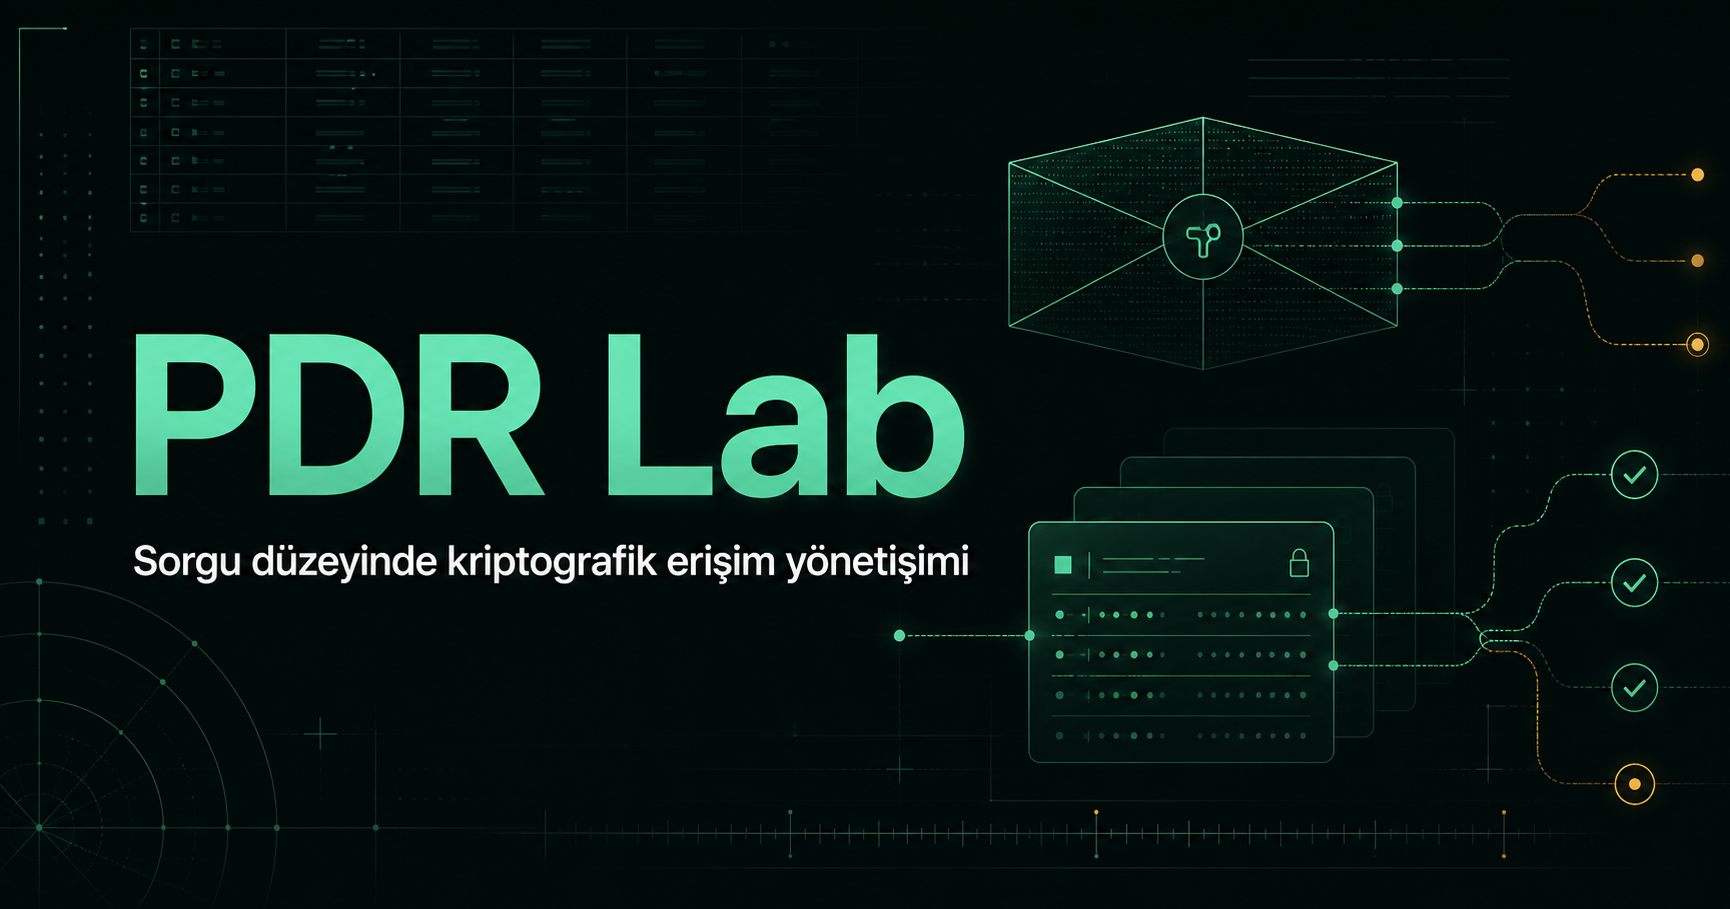
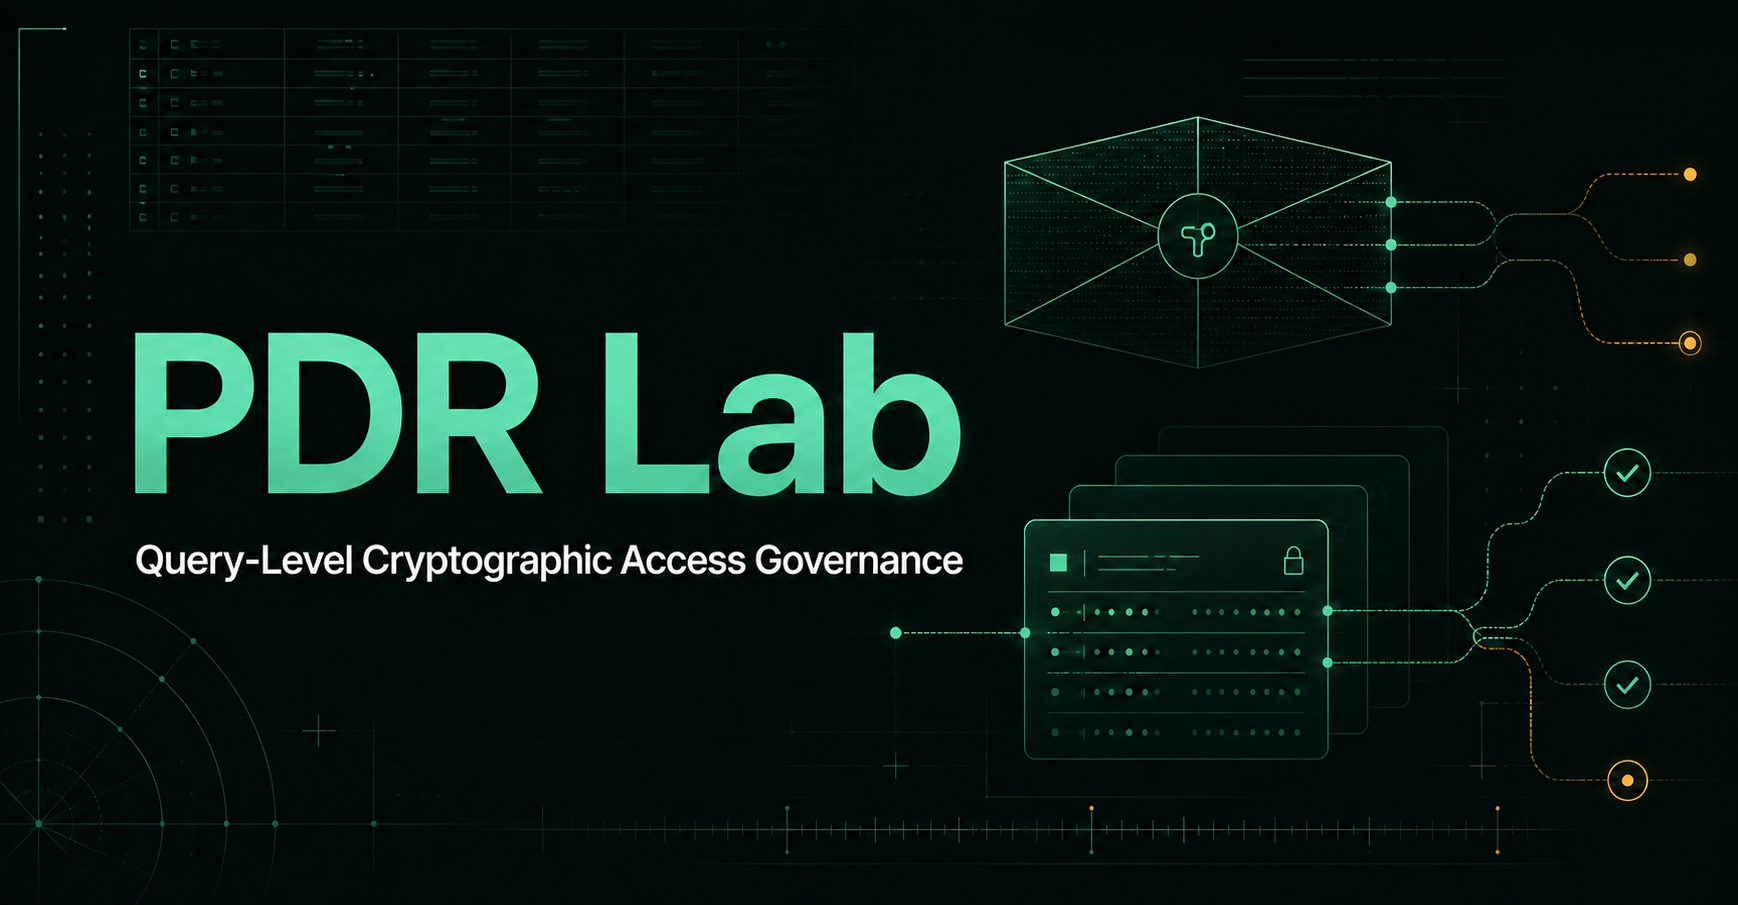
Make documentation and app English-first

diff --git a/app/page.tsx b/app/page.tsx
@@ -181,17 +181,17 @@ async function hashText(text: string) {
 }
 
 export default function Home() {
-  const [lang, setLang] = useState<Locale>('tr');
+  const [lang, setLang] = useState<Locale>('en');
   const [mode, setMode] = useState<AccessMode>('lawful');
   const [recordId, setRecordId] = useState('PDR-C-1004');
   const [authority, setAuthority] = useState('Mali Suçları Araştırma Birimi');
-  const [legalBasis, setLegalBasis] = useState('AML-14 / Şüpheli işlem incelemesi');
+  const [legalBasis, setLegalBasis] = useState('AML-14 / Suspicious transaction review');
   const [purpose, setPurpose] = useState('Şüpheli işlem analizi');
   const [duration, setDuration] = useState('24');
   const [identityVerified, setIdentityVerified] = useState(true);
   const [fields, setFields] = useState<string[]>(['islemKimligi', 'taraflar', 'tutar', 'tarih']);
   const [decision, setDecision] = useState<Decision>('idle');
-  const [reason, setReason] = useState('Bir senaryo seçin veya istek bağlamını düzenleyin.');
+  const [reason, setReason] = useState('Select a scenario or edit the request context.');
   const [result, setResult] = useState<Payload | null>(null);
   const [excluded, setExcluded] = useState<string[]>([]);
   const [activeStage, setActiveStage] = useState(-1);
@@ -252,7 +252,12 @@ export default function Home() {
 
   useEffect(() => {
     const saved = window.localStorage.getItem('pdr-lab-locale');
-    if (saved === 'tr' || saved === 'en') setLang(saved);
+    if (saved === 'tr' || saved === 'en') {
+      setLang(saved);
+      document.documentElement.lang = saved;
+    } else {
+      document.documentElement.lang = 'en';
+    }
   }, []);
 
   function changeLanguage(next: Locale) {

diff --git a/index.html b/index.html
@@ -1,24 +1,26 @@
 <!doctype html>
-<html lang="tr">
+<html lang="en">
   <head>
     <meta charset="UTF-8" />
     <meta name="viewport" content="width=device-width, initial-scale=1.0" />
     <meta name="theme-color" content="#edf4f0" />
     <meta
       name="description"
-      content="Çift anahtar-sarmalama ve sorgu düzeyinde erişim yönetişimi için etkileşimli PDR laboratuvarı."
+      content="An interactive PDR laboratory for dual key-wrapping and query-level access governance."
     />
-    <meta property="og:title" content="PDR Lab — Kriptografik Erişim Yönetişimi" />
+    <meta property="og:title" content="PDR Lab — Cryptographic Access Governance" />
     <meta
       property="og:description"
-      content="Sorgu düzeyinde erişim, çift DEK sarması ve denetim bütünlüğünü deneyin."
+      content="Explore query-level access, dual DEK wrapping, output minimization, and audit integrity."
     />
     <meta property="og:type" content="website" />
+    <meta property="og:locale" content="en_US" />
+    <meta property="og:locale:alternate" content="tr_TR" />
     <meta property="og:url" content="https://esatsy.github.io/pdr-lab-10/" />
     <meta property="og:image" content="https://esatsy.github.io/pdr-lab-10/og.png" />
     <meta name="twitter:card" content="summary_large_image" />
     <link rel="icon" href="%BASE_URL%favicon.svg" />
-    <title>PDR Lab — Kriptografik Erişim Yönetişimi</title>
+    <title>PDR Lab — Cryptographic Access Governance</title>
   </head>
   <body>
     <div id="root"></div>

diff --git a/README.md b/README.md
@@ -1,106 +1,108 @@
-# PDR Lab — Kriptografik Erişim Yönetişimi
+# PDR Lab — Cryptographic Access Governance
 
 [![GitHub Pages](https://github.com/Esatsy/pdr-lab-10/actions/workflows/pages.yml/badge.svg)](https://github.com/Esatsy/pdr-lab-10/actions/workflows/pages.yml)
 ![React](https://img.shields.io/badge/React-19-149eca?logo=react&logoColor=white)
 ![TypeScript](https://img.shields.io/badge/TypeScript-5.9-3178c6?logo=typescript&logoColor=white)
 ![Web Crypto API](https://img.shields.io/badge/Web%20Crypto-AES--GCM%20%2B%20RSA--OAEP-16785a)
 
-PDR Lab, kişisel veri kayıtlarına erişimin yalnızca veritabanı rolüne göre değil; **kimlik, hak sahipliği, yasal yetki, amaç, süre ve talep edilen alan kapsamına** göre değerlendirilmesini gösteren etkileşimli bir araştırma laboratuvarıdır.
+PDR Lab is an interactive research environment demonstrating how access to personal data records can be governed by **identity, entitlement, legal authority, purpose, duration, and requested field scope**—not merely by a database role.
 
-Uygulama, makaledeki akışı iki ayrı anahtar yolu üzerinden canlandırır: kayıt sahibinin kişisel erişimi ve yetkili kurumun sorgu-kapsamlı yasal erişimi. Tüm kayıtlar sentetiktir; kriptografik işlemler tarayıcıdaki Web Crypto API ile gerçekleştirilir.
+The laboratory implements two distinct cryptographic access paths from the paper's flow: personal access by the record holder and query-scoped lawful access by an authorized institution. All records are synthetic, and cryptographic operations run locally in the browser through the Web Crypto API.
 
-## Canlı uygulama
+## Live demo
 
-- [GitHub Pages sürümü](https://esatsy.github.io/pdr-lab-10/)
+[Launch PDR Lab on GitHub Pages](https://esatsy.github.io/pdr-lab-10/)
 
-![PDR Lab arayüz önizlemesi](./public/og.png)
+![PDR Lab interface preview](./public/og.png)
 
-## Laboratuvar neyi gösteriyor?
+The interface opens in English. Turkish remains available from the `EN / TR` language control, and the selected preference is retained in the browser.
 
-- PDR-A, PDR-B, PDR-C ve PDR-D sınıflarında dört sentetik kayıt.
-- Kişisel, yasal ve DBA erişim yollarının birbirinden ayrılması.
-- Her kayıt için AES-GCM veri şifreleme anahtarı (DEK).
-- Aynı DEK'in kişisel ve yasal erişim için iki ayrı RSA-OAEP anahtarıyla sarılması.
-- Yasal sorgularda alan düzeyinde veri küçültme.
-- Onay, daraltma ve ret kararlarının gerekçeli biçimde gösterilmesi.
-- Zincirlenmiş denetim kayıtları ve manipülasyon testi.
-- RQ1/RQ2 kapsamını ölçen sekiz çalıştırılabilir doğrulama senaryosu.
-- Türkçe ve İngilizce arayüz desteği.
+## What the lab demonstrates
 
-## Makaledeki erişim akışı
+- Four synthetic records across the PDR-A, PDR-B, PDR-C, and PDR-D classes.
+- Separate personal, lawful, and database-administrator access paths.
+- A randomly generated AES-GCM data-encryption key (DEK) for every record.
+- Dual RSA-OAEP wrapping of each DEK for personal and lawful access.
+- Field-level data minimization for lawful queries.
+- Explainable `APPROVED`, `NARROWED`, and `DENIED` decisions.
+- Hash-chained audit records with an integrity-tampering test.
+- Eight executable validation scenarios covering RQ1 and RQ2.
+- English-first bilingual interface with Turkish support.
+
+## Access flow
 
 ```mermaid
 flowchart TD
-    A[1 · Erişim isteği] --> B{İstek sahibi}
+    A[1 · Access request] --> B{Requester type}
 
-    B -->|Kayıt sahibi| C[2A · Kimlik ve hak doğrulama]
-    C -->|Başarılı| D[6A · Kişisel anahtar yolu]
-    C -->|Başarısız| X[Ret ve denetim kaydı]
+    B -->|Record holder| C[2A · Identity and entitlement]
+    C -->|Verified| D[6A · Personal key path]
+    C -->|Failed| X[Deny and audit]
 
-    B -->|Kullanıcı dışı aktör| E[2B · Yetki doğrulama]
-    E --> F[3 · Yetki ve istek bağlamı]
-    F --> G[4 · Deterministik politika]
-    G -->|Eşleşme yok| X
-    G --> H[5 · Sorgu ve alan kapsamı]
-    H --> I[6B · Yasal erişim anahtar yolu]
+    B -->|Non-user actor| E[2B · Authority validation]
+    E --> F[3 · Authority and request context]
+    F --> G[4 · Deterministic policy]
+    G -->|No match| X
+    G --> H[5 · Query and field scope]
+    H --> I[6B · Lawful-access key path]
 
-    B -->|DBA| J[Şifreli depo]
+    B -->|DBA| J[Encrypted repository]
     J --> X
 
-    D --> K[AES-GCM çözme]
+    D --> K[AES-GCM decryption]
     I --> K
-    K --> L[Yetkili ve küçültülmüş çıktı]
-    L --> M[Saklama · silme · bildirim]
+    K --> L[Authorized and minimized output]
+    L --> M[Retention · deletion · notification]
     X --> M
 ```
 
-Kişisel yol, doğrulanmış kayıt sahibini doğrudan kişisel anahtar işlemine taşır. Kullanıcı dışı yol ise özel anahtar işleminden önce yetki, amaç, yasal dayanak, süre ve alan kapsamını denetler. DBA rolü şifreli depoyu yönetebilir; ancak bu teknik ayrıcalık özel anahtar çağırma veya açık metin okuma yetkisi vermez.
+The personal path takes a verified record holder directly to the personal key operation. The non-user path evaluates authority, purpose, legal basis, duration, and field scope before a lawful private-key operation becomes available. A DBA may administer encrypted storage but cannot invoke either private key or read plaintext.
 
-## Karar motoru
+## Decision engine
 
-Karar motoru deterministiktir. Aynı kayıt ve aynı istek bağlamı her çalıştırmada aynı yetkilendirme sonucunu üretir.
+The decision engine is deterministic: the same record and request context always produce the same authorization result.
 
-| Yol | Kontrol | İzin verilen kapsam |
+| Path | Required match | Maximum released scope |
 |---|---|---|
-| Kişisel | Kayıt PDR-A/kişisel olmalı ve kimlik-hak doğrulaması başarılı olmalı | Kaydın tüm alanları |
-| Kolluk / Savcılık | PDR-B + `Soruşturma kapsamı` | Abone kimliği, hücre bölgesi, zaman aralığı |
-| Mali Suçları Araştırma Birimi | PDR-C + `Şüpheli işlem analizi` | İşlem kimliği, taraflar, tutar, tarih |
-| Finansal Düzenleme Kurumu | PDR-D + `Dolandırıcılık örüntüsü analizi` | Risk skoru ve örüntü |
-| Kamu Sağlığı Kurumu | PDR-A + `Bulaşıcı hastalık izlemi` | Tanı ve ziyaret tarihi |
-| DBA | Teknik rol hiçbir özel anahtar yolunu açmaz | Açık metin yok |
+| Personal | Personal record and verified identity/entitlement | All record fields |
+| Law enforcement / Prosecutor | PDR-B + `Investigation scope` | Subscriber ID, cell area, time range |
+| Financial Intelligence Unit | PDR-C + `Suspicious transaction analysis` | Transaction ID, parties, amount, date |
+| Financial regulator | PDR-D + `Fraud-pattern analysis` | Risk score and pattern |
+| Public-health authority | PDR-A + `Infectious-disease monitoring` | Diagnosis and visit date |
+| DBA | Technical role never opens a private-key path | No plaintext |
 
-Yasal erişimde ayrıca yasal dayanak boş bırakılamaz ve istek süresi **72 saati aşamaz**.
+Lawful access also requires a non-empty legal or institutional basis and an authorization duration of no more than **72 hours**.
 
-- İstenen alanların tamamı izinliyse sonuç **ONAYLANDI** olur.
-- İzinli ve izinsiz alanlar birlikte istenirse yalnızca izinli alanlar döner; sonuç **DARALTILDI** olur.
-- Kimlik/hak, yetki-amaç eşleşmesi, yasal dayanak veya süre kontrolü başarısızsa sonuç **REDDEDİLDİ** olur ve şifre çözme işlemi başlamaz.
+- If every requested field is permitted, the request is **APPROVED**.
+- If permitted and excessive fields are mixed, only permitted fields are returned and the request is **NARROWED**.
+- If identity, entitlement, authority-purpose matching, legal basis, or duration validation fails, the request is **DENIED** before decryption begins.
 
-## Kriptografik model
+## Cryptographic model
 
 ```text
-Kayıt → rastgele AES-GCM DEK → şifreli veri
-                         ├── RSA-OAEP / kişisel açık anahtar → kişisel sarılı DEK
-                         └── RSA-OAEP / yasal açık anahtar   → yasal sarılı DEK
+Record → random AES-GCM DEK → encrypted payload
+                         ├── RSA-OAEP / personal public key → personal-wrapped DEK
+                         └── RSA-OAEP / lawful public key   → lawful-wrapped DEK
 ```
 
-Başarılı kararın ardından yalnızca seçilen erişim yolunun özel anahtarı DEK'i açar. Veri AES-GCM ile çözülür ve karar motorunun izin verdiği alanlarla sınırlandırılır. Anahtarlar yalnızca tarayıcı belleğinde oluşturulur; uygulamada gerçek kişi verisi veya kalıcı özel anahtar bulunmaz.
+After a successful decision, only the private key belonging to the selected access path unwraps the DEK. The payload is decrypted with AES-GCM and filtered to the fields authorized by policy. Keys exist only in browser memory; the application contains no real personal data or persistent private keys.
 
-## Doğrulama senaryoları
+## Validation scenarios
 
-| ID | Senaryo | Beklenen sonuç |
+| ID | Scenario | Expected result |
 |---|---|---|
-| T1 | DBA doğrudan açık metin denemesi | Ret; açık metin sızıntısı yok |
-| T2 | Geçerli kişisel erişim | Kişisel anahtar yoluyla tam yetkili çıktı |
-| T3 | Geçerli yasal sorgu | Yasal anahtar yoluyla dört izinli alan |
-| T4 | Fazla alan talebi | Talep daraltılır, fazla alan dışlanır |
-| T5 | Geçersiz yetki / amaç | Politika reddi; kriptografik çağrı yok |
-| T6 | Çok taraflı kayıt | Sorgu kapsamına uygun küçültülmüş çıktı |
-| T7 | Veri füzyonu | Yalnızca risk skoru ve örüntü |
-| T8 | Denetim kaydı manipülasyonu | Hash zinciri bütünlük hatasını yakalar |
+| T1 | DBA direct plaintext attempt | Denied; no plaintext leakage |
+| T2 | Valid personal access | Fully authorized output through the personal key path |
+| T3 | Valid lawful query | Four authorized fields through the lawful key path |
+| T4 | Excess-field request | Request narrowed; excessive field excluded |
+| T5 | Invalid authority or purpose | Policy denial; no cryptographic call |
+| T6 | Multi-party record | Query-scoped minimized output |
+| T7 | Data-fusion scenario | Risk score and pattern only |
+| T8 | Audit-record manipulation | Hash-chain integrity failure detected |
 
-## Yerelde çalıştırma
+## Run locally
 
-Gereksinimler: Node.js `22.13.0` veya üzeri ve npm.
+Requirements: Node.js `22.13.0` or later and npm.
 
 ```bash
 git clone https://github.com/Esatsy/pdr-lab-10.git
@@ -109,29 +111,39 @@ npm ci
 npm run dev
 ```
 
-Üretim derlemeleri:
+Create a production build:
 
 ```bash
 npm run build
 ```
 
-GitHub Pages çıktısı `dist/` klasöründe oluşturulur.
+The static output is written to `dist/`.
 
-## Proje yapısı
+## Project structure
 
 ```text
-app/page.tsx                 Laboratuvar, karar motoru ve doğrulama senaryoları
-app/globals.css              Tema ve uygulamaya özel stiller
-components/ui/               Yeniden kullanılabilir arayüz bileşenleri
-main.tsx                     React uygulama giriş noktası
-vite.config.ts               Vite ve GitHub Pages derleme ayarları
-.github/workflows/pages.yml  Otomatik Pages dağıtımı
+app/page.tsx                 Lab, decision engine, and validation scenarios
+app/globals.css              Theme and application-specific styles
+components/ui/               Reusable interface components
+main.tsx                     React application entry point
+vite.config.ts               Vite and GitHub Pages build configuration
+.github/workflows/pages.yml  Automated GitHub Pages deployment
 ```
 
-## Yayınlama
+## Deployment
 
-`main` dalına yapılan her gönderim, GitHub Actions üzerinden statik Pages derlemesini üretir ve yayımlar.
+Every push to `main` builds the static application and deploys it to GitHub Pages through GitHub Actions.
 
-## Sınırlamalar
+## Limitations
 
-Bu proje akademik kavramları görünür kılan bir **eğitim ve doğrulama prototipidir**. Üretim ortamı için HSM/KMS anahtar yönetimi, kurumsal kimlik doğrulama, güvenilir politika deposu, sunucu tarafı denetim altyapısı ve mevzuata özgü kontroller ayrıca uygulanmalıdır.
+This project is an **educational and validation prototype**. A production implementation would additionally require HSM/KMS-backed key management, institutional identity integration, a trusted policy store, server-side audit infrastructure, and jurisdiction-specific compliance controls.
+
+---
+
+## Türkçe özet
+
+PDR Lab; kişisel veri kayıtlarına erişimin kimlik, hak sahipliği, yasal yetki, amaç, süre ve talep edilen alan kapsamına göre değerlendirilmesini gösteren etkileşimli bir araştırma laboratuvarıdır.
+
+Laboratuvar; kişisel ve yasal erişim için iki ayrı RSA-OAEP anahtar yolu, AES-GCM ile şifrelenmiş sentetik kayıtlar, alan düzeyinde veri küçültme, açıklanabilir kararlar, zincirlenmiş denetim kayıtları ve sekiz doğrulama senaryosu içerir. Arayüz varsayılan olarak İngilizce açılır; `EN / TR` seçicisinden Türkçeye geçilebilir.
+
+[Canlı uygulamayı açın](https://esatsy.github.io/pdr-lab-10/)
